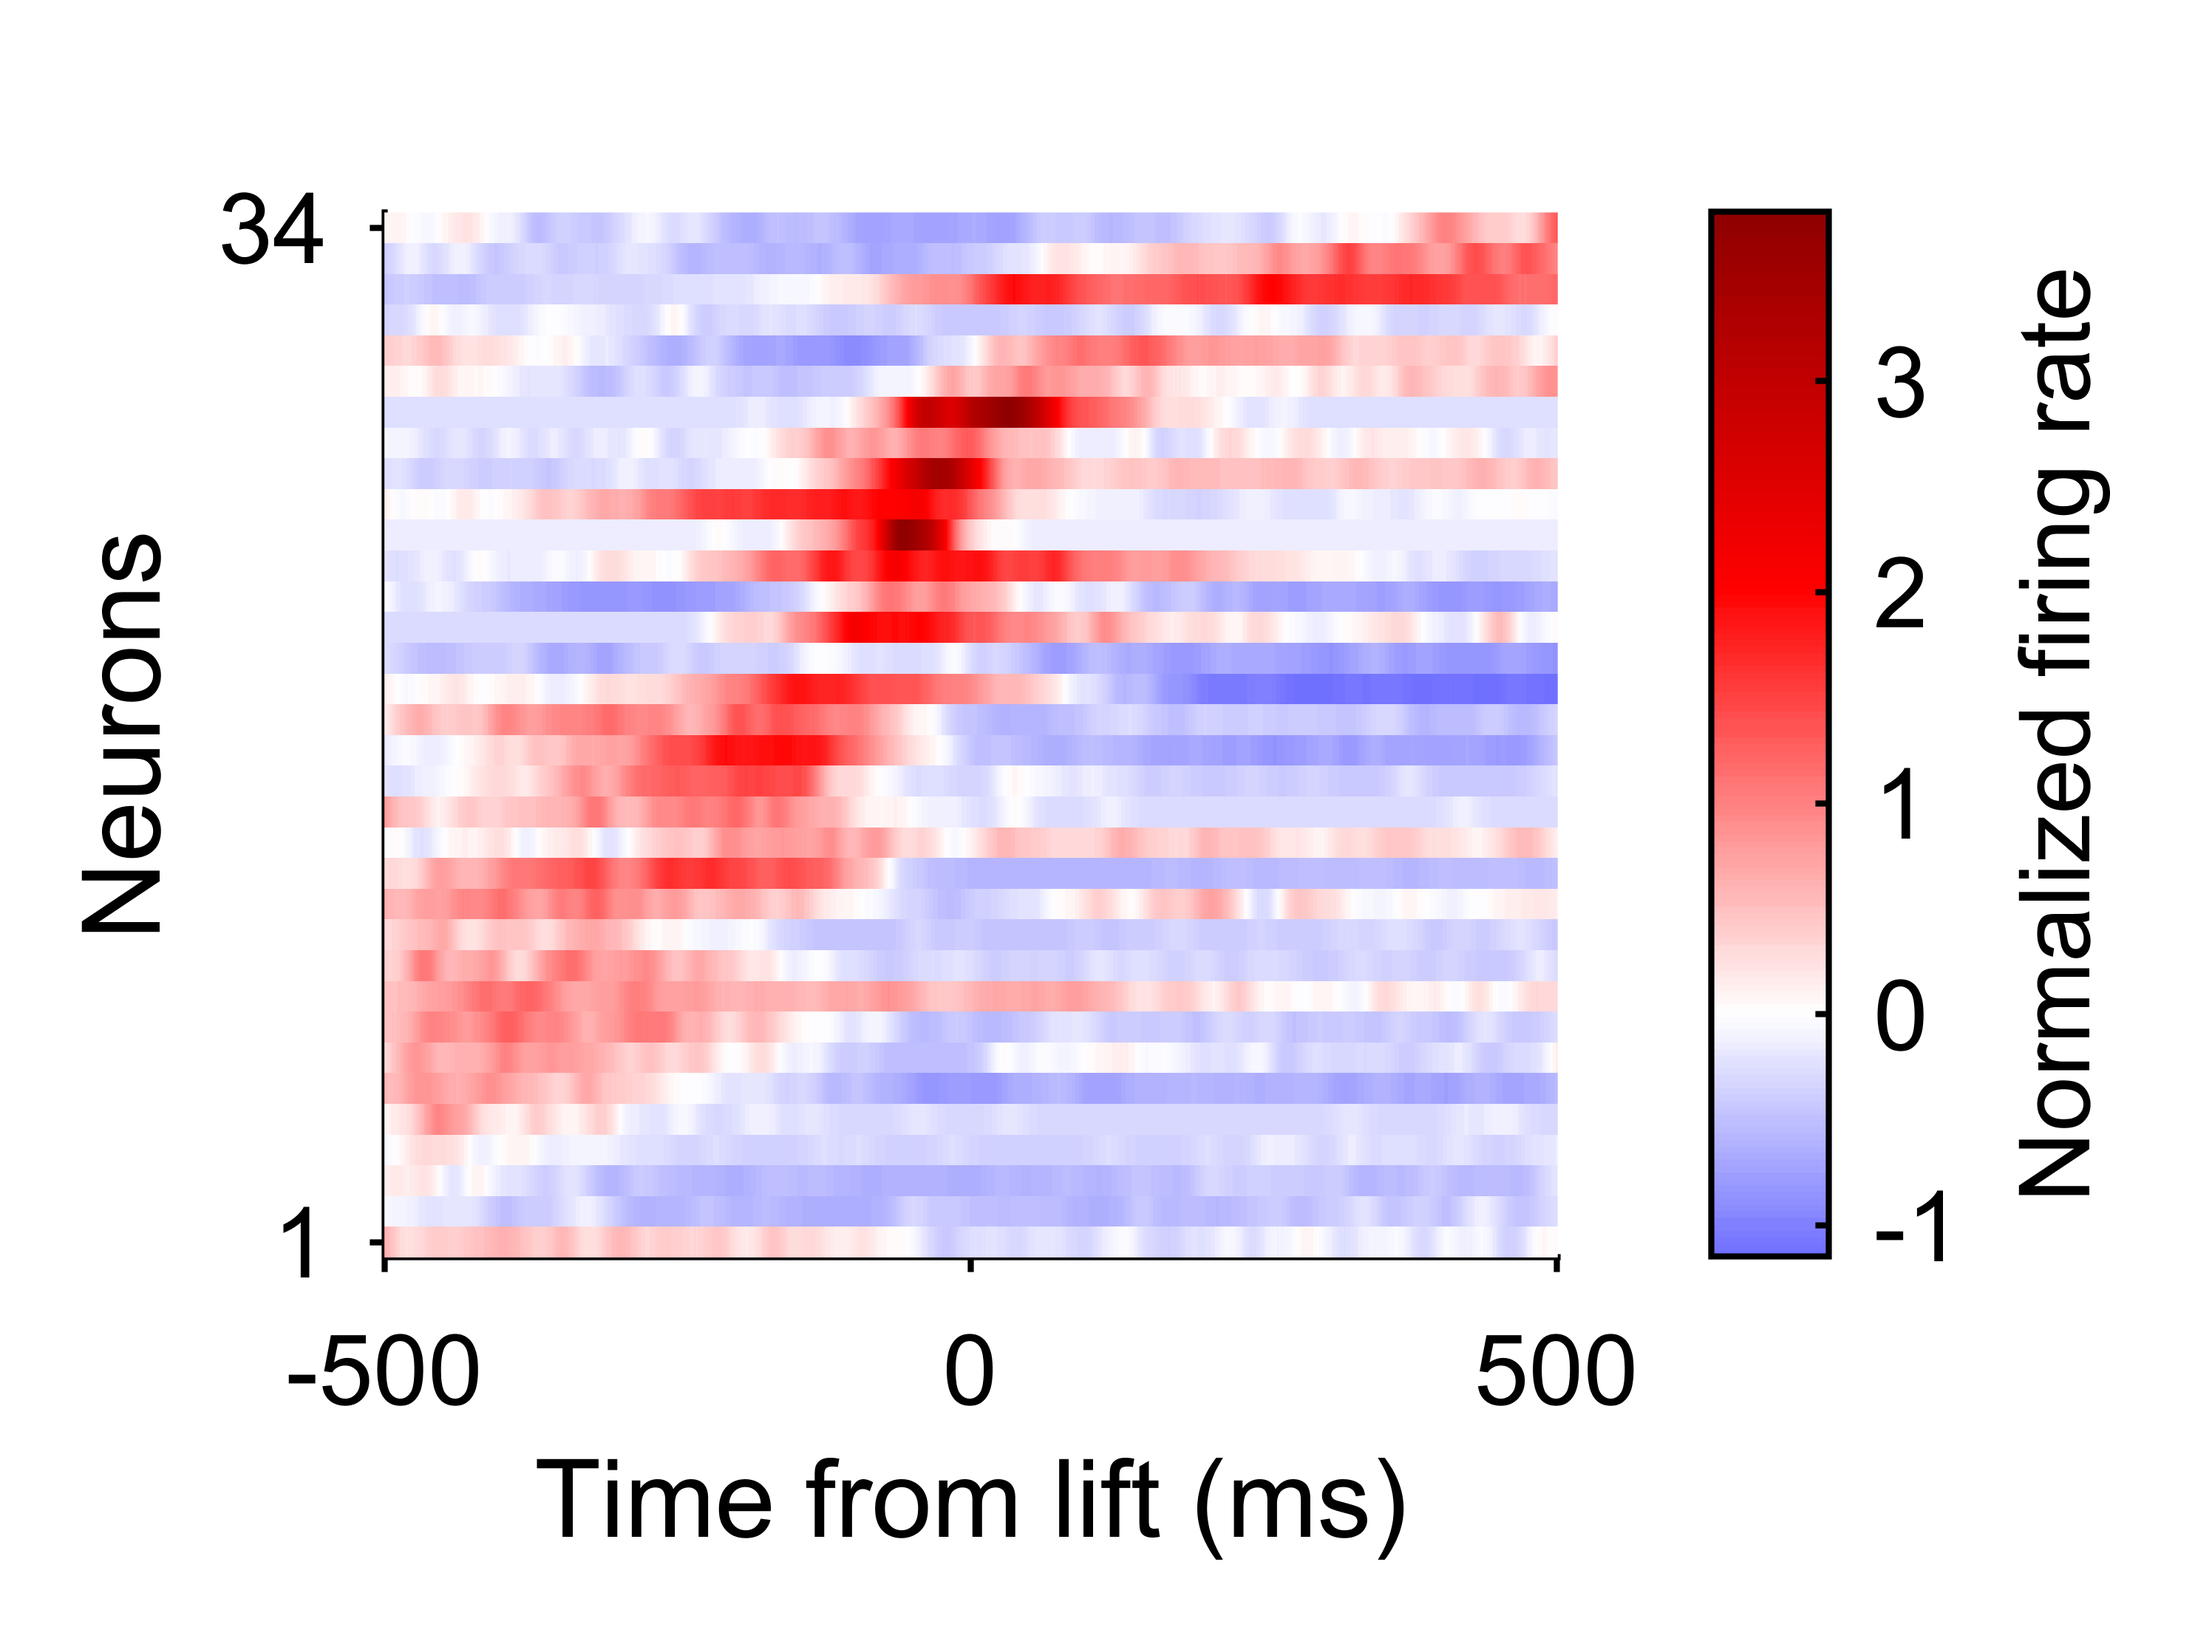
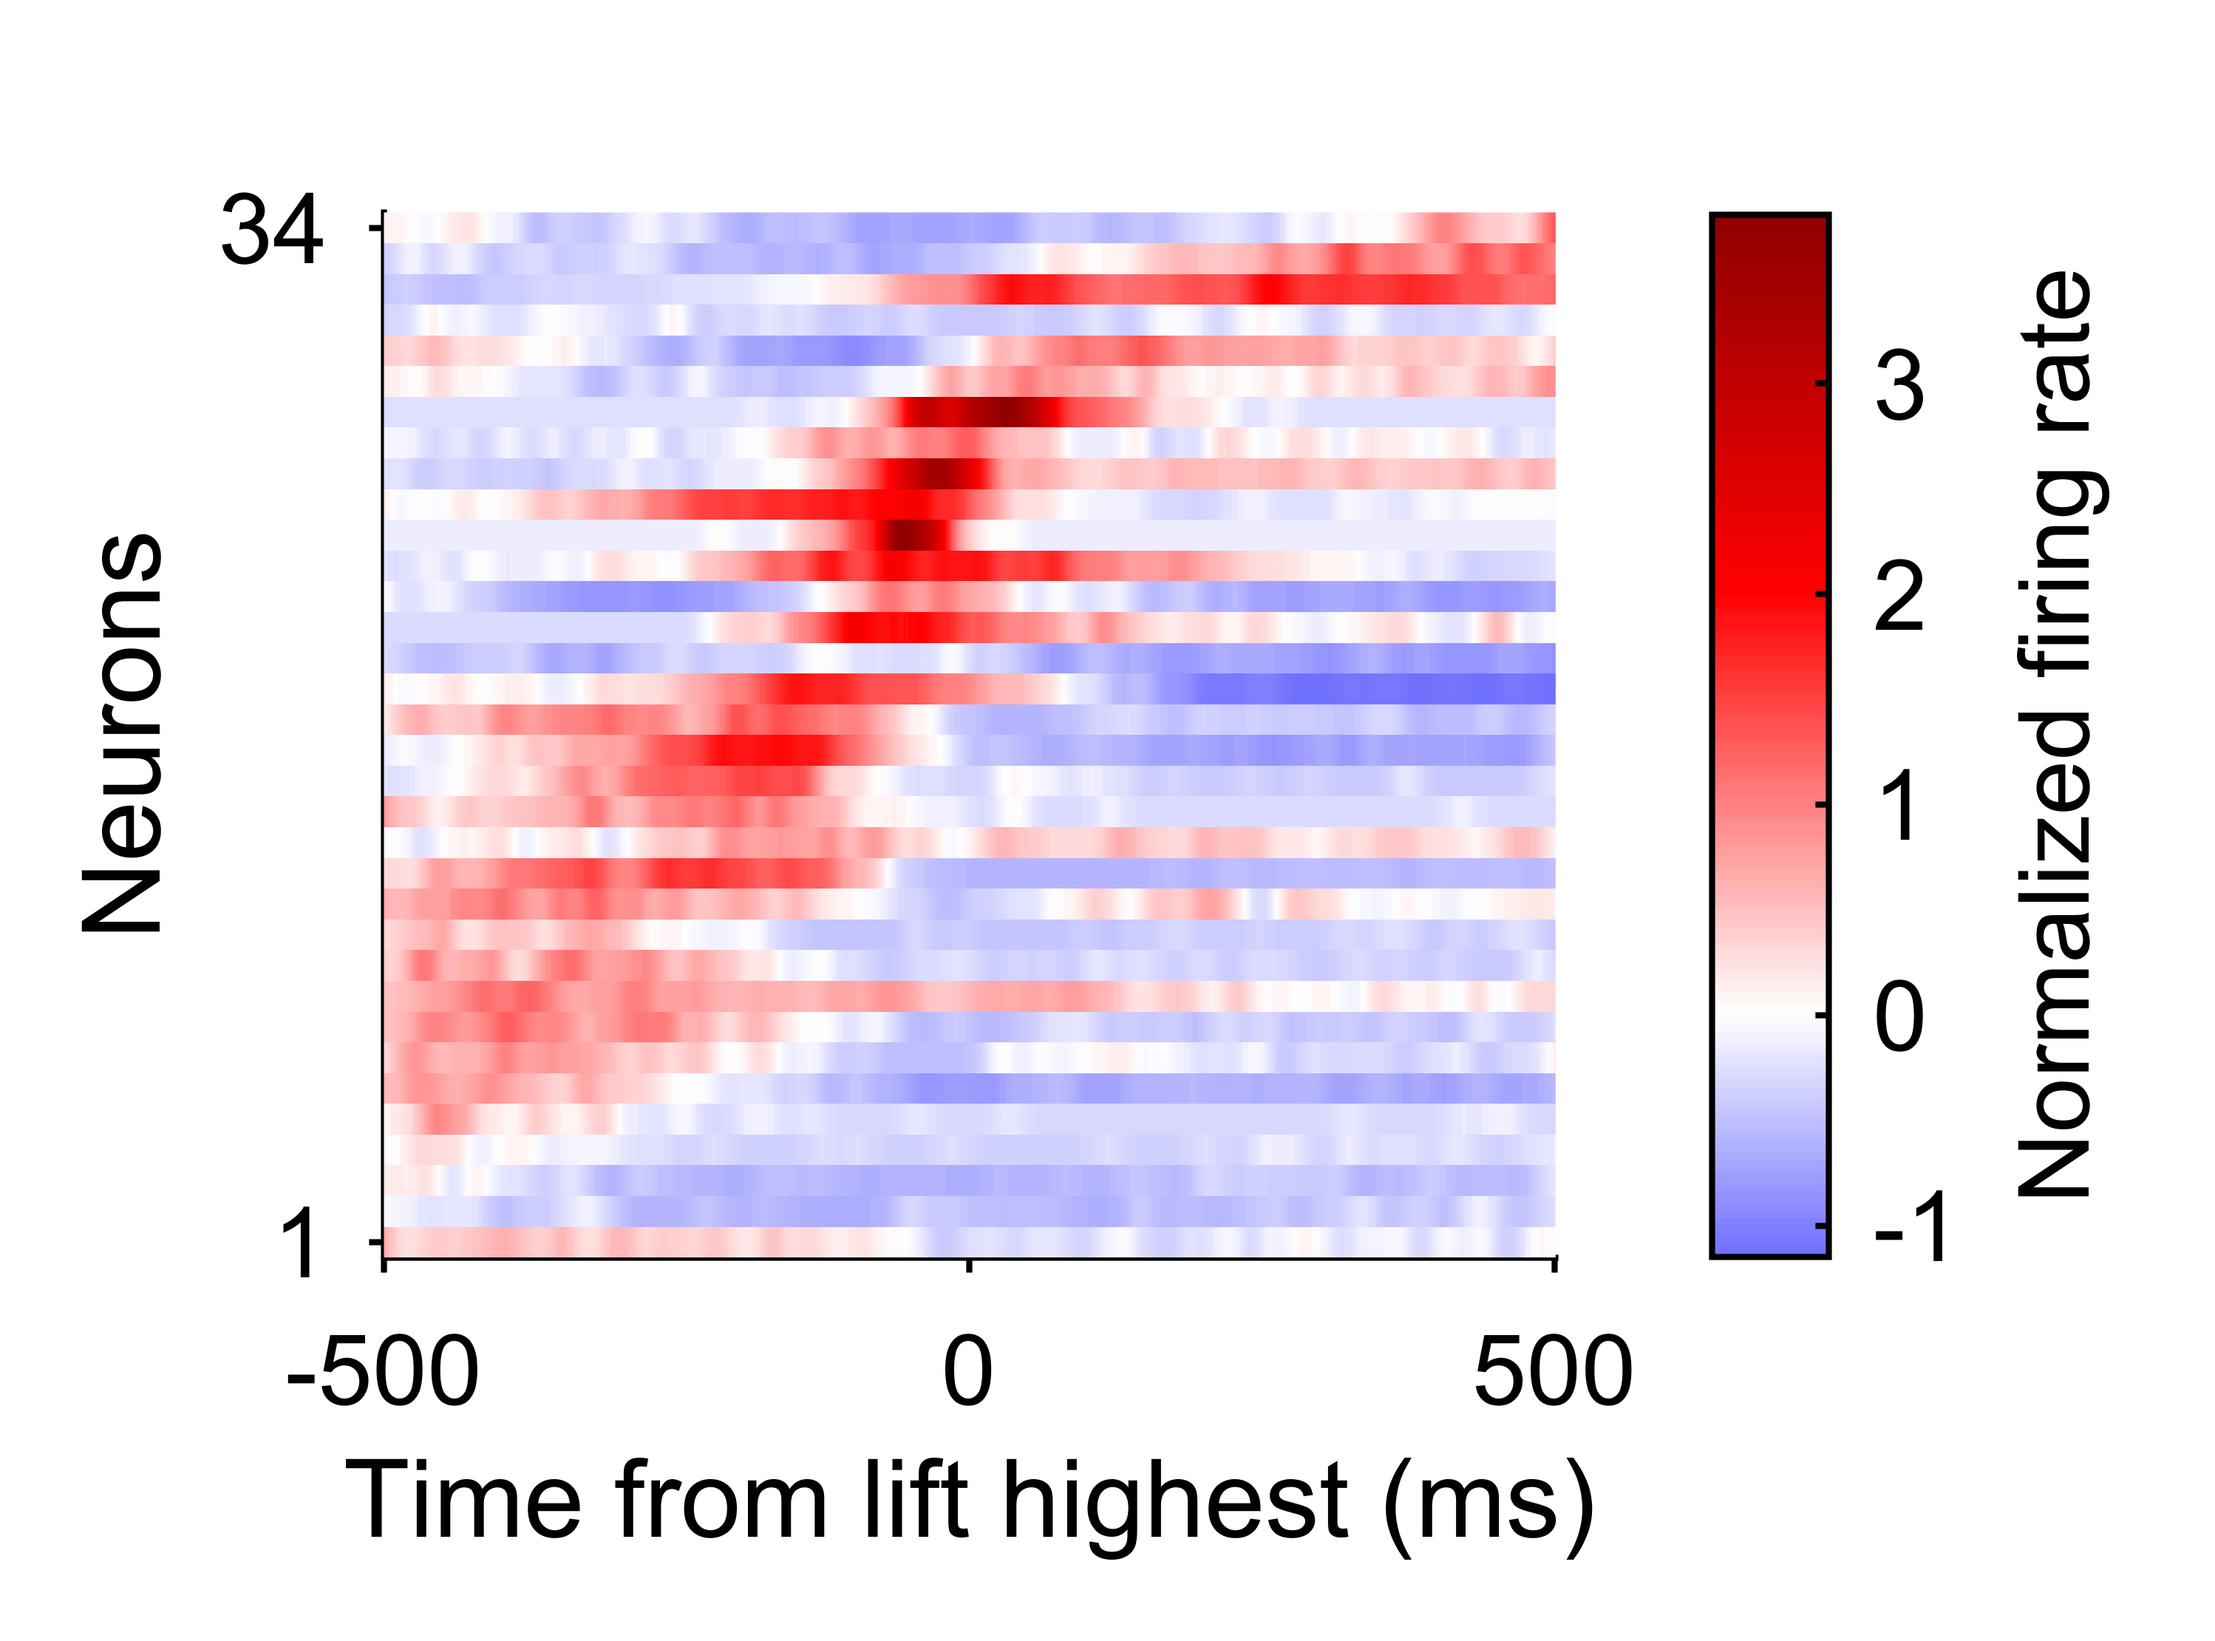
2023.2.14

diff --git a/CodesHY/Scripts/fig/TrajectoryCellAll/PETHLiftHighest.m b/CodesHY/Scripts/fig/TrajectoryCellAll/PETHLiftHighest.m
@@ -1,8 +1,8 @@
 SetNeurons;
 
 bodypart = 'left_paw';
-frame_pre = 100;
-frame_post = 20;
+frame_pre = 30;
+frame_post = 30;
 %% Extract spike time
 count = 0;
 Neurons = [];
@@ -26,8 +26,15 @@ for r_idx = 1:3:length(r_traj_all)
     idx_bodypart = find(strcmp(r.VideoInfos_side(1).Tracking.BodyParts,bodypart));
     
     lift_highest_time = zeros(1,length(idx_all));
-    traj = zeros(1,1+frame_pre+frame_post);
+    traj = cell(1,length(vid_idx));
+    traj_pre = nan(length(vid_idx),frame_pre);
+    traj_post = nan(length(vid_idx),frame_post);
+
+    t_traj = cell(1,length(vid_idx));
+    t_traj_pre = nan(length(vid_idx),frame_pre);
+    t_traj_post = nan(length(vid_idx),frame_post);
     for k = 1:length(vid_idx)
+        % Extract lift highest time
         frame_start = r.VideoInfos_side(vid_idx(k)).LiftStartFrameNum;
         frame_end = round(-r.VideoInfos_side(vid_idx(k)).t_pre/10);
         
@@ -36,15 +43,48 @@ for r_idx = 1:3:length(r_traj_all)
         frame_highest = frame_range(idx_highest);
 
         lift_highest_time(k) = r.VideoInfos_side(vid_idx(k)).VideoFrameTime(frame_highest);
+        traj{k} = r.VideoInfos_side(vid_idx(k)).Tracking.Coordinates_y{idx_bodypart}(frame_start:frame_highest);
+        t_traj{k} = r.VideoInfos_side(vid_idx(k)).VideoFrameTime(frame_start:frame_highest)-r.VideoInfos_side(vid_idx(k)).VideoFrameTime(frame_highest);
+        
+        % Extract frame previous to lift start
+        frame_start = r.VideoInfos_side(vid_idx(k)).LiftStartFrameNum;
+        while frame_start-1 >= max(r.VideoInfos_side(vid_idx(k)).LiftStartFrameNum-frame_pre,1)...
+                && r.VideoInfos_side(vid_idx(k)).Tracking.Coordinates_p{idx_bodypart}(frame_start-1) > 0.8
+            frame_start = frame_start-1;
+        end
+
+        frame_end = r.VideoInfos_side(vid_idx(k)).LiftStartFrameNum-1;
+        frame_range = frame_start:frame_end;
+        traj_pre(k,end-length(frame_range)+1:end) = r.VideoInfos_side(vid_idx(k)).Tracking.Coordinates_y{idx_bodypart}(frame_range);
+        t_traj_pre(k,end-length(frame_range)+1:end) = r.VideoInfos_side(vid_idx(k)).VideoFrameTime(frame_range)-r.VideoInfos_side(vid_idx(k)).VideoFrameTime(frame_highest);
+
+        % Extract frame post to lift start
+%         frame_end = frame_highest;
+%         while frame_end+1 <= min(frame_highest+frame_post,r.VideoInfos_side(vid_idx(k)).total_frames).....
+%                 && r.VideoInfos_side(vid_idx(k)).Tracking.Coordinates_p{idx_bodypart}(frame_end+1) > 0.8
+%             frame_end = frame_end+1;
+%         end
+        frame_end = frame_highest+frame_post;
+
+        frame_start = frame_highest+1;
+        frame_range = frame_start:frame_end;
+        traj_post(k,1:length(frame_range)) = r.VideoInfos_side(vid_idx(k)).Tracking.Coordinates_y{idx_bodypart}(frame_range);    
+        t_traj_post(k,1:length(frame_range)) = r.VideoInfos_side(vid_idx(k)).VideoFrameTime(frame_range)-r.VideoInfos_side(vid_idx(k)).VideoFrameTime(frame_highest);
     end
 
     count = count+1;
     Neurons(count).spike_time = r.Units.SpikeTimes(r_traj_all{r_idx+1}).timings;
     Neurons(count).lift_highest_time = lift_highest_time;
     Neurons(count).traj = traj;
+    Neurons(count).traj_pre = traj_pre;
+    Neurons(count).traj_post = traj_post;
+
+    Neurons(count).t_traj = t_traj;
+    Neurons(count).t_traj_pre = t_traj_pre;
+    Neurons(count).t_traj_post = t_traj_post;
 end
 
-save Neurons_lift_highest.mat Neurons
+save Neurons_lift_highest.mat Neurons frame_pre frame_post
 
 %% Extract PETH
 clear
@@ -58,7 +98,7 @@ params.pre = -t_pre;
 params.post = t_post;
 params.binwidth = binwidth;
 
-psth_lift = [];
+psth_lift_unsorted = [];
 for k = 1:length(Neurons)
 
     params_temp = params;
@@ -73,13 +113,13 @@ for k = 1:length(Neurons)
     std_psth = std(psth_temp);
 
     psth = (psth-mean_psth)./std_psth;
-    psth_lift = [psth_lift;psth];
+    psth_lift_unsorted = [psth_lift_unsorted;psth];
 end
 
 % sort by max response time
-[~, max_t] = max(psth_lift,[],2);
+[~, max_t] = max(psth_lift_unsorted,[],2);
 [~, sort_idx] = sort(max_t);
-psth_lift = psth_lift(sort_idx,:);
+psth_lift = psth_lift_unsorted(sort_idx,:);
 
 %% Make figures press PETH
 fig = EasyPlot.figure('Width',10,'Height',10);
@@ -102,10 +142,123 @@ EasyPlot.colorbar(ax_peth,...
 yticks(ax_peth,[1,length(Neurons)]);
 
 ylabel(ax_peth,'Neurons')
-xlabel(ax_peth,'Time from lift (ms)')
+xlabel(ax_peth,'Time from lift highest (ms)')
 
 EasyPlot.cropFigure(fig)
 EasyPlot.exportFigure(fig,'LiftHighestPETHTrajectoryCell','type','png','dpi',1200)
+
+%% Mean traj
+NpointTraj = 200;
+
+traj_all = [];
+traj_pre_all = [];
+traj_post_all = [];
+traj_length_all = [];
+t_traj_all = [];
+t_Neurons = [];
+
+for k = 1:length(Neurons)
+    for j = 1:length(Neurons(k).traj)
+        traj_length_all = [traj_length_all, length(Neurons(k).traj{j})];
+    end
+end
+
+NpointPre = round((NpointTraj-1)*frame_pre/mean(traj_length_all-1)+1);
+NpointPost = round((NpointTraj-1)*frame_post/mean(traj_length_all-1)+1);
+
+for k = 1:length(Neurons)
+    t_Neuron = [];
+    for j = 1:length(Neurons(k).traj)
+        traj_interpolated = interp1(...
+            1:length(Neurons(k).traj{j}),...
+            Neurons(k).traj{j},...
+            linspace(1,length(Neurons(k).traj{j}),NpointTraj));
+        t_traj_interpolated = interp1(...
+            1:length(Neurons(k).t_traj{j}),...
+            Neurons(k).t_traj{j},...
+            linspace(1,length(Neurons(k).t_traj{j}),NpointTraj));
+
+        traj_pre_interpolated = interp1(...
+            0:frame_pre,...
+            [Neurons(k).traj_pre(j,:),Neurons(k).traj{j}(1)],...
+            linspace(0,frame_pre,NpointPre));
+        t_traj_pre_interpolated = interp1(...
+            0:frame_pre,...
+            [Neurons(k).t_traj_pre(j,:),Neurons(k).t_traj{j}(1)],...
+            linspace(0,frame_pre,NpointPre));
+
+        traj_post_interpolated = interp1(...
+            0:frame_post,...
+            [Neurons(k).traj{j}(end),Neurons(k).traj_post(j,:)],...
+            linspace(0,frame_post,NpointPost));
+        t_traj_post_interpolated = interp1(...
+            0:frame_post,...
+            [Neurons(k).t_traj{j}(end),Neurons(k).t_traj_post(j,:)],...
+            linspace(0,frame_post,NpointPost));
+
+        traj_all = [traj_all; [traj_pre_interpolated(1:end-1),traj_interpolated,traj_post_interpolated(2:end)]]; % remove repeated points
+        t_traj_all = [t_traj_all; [t_traj_pre_interpolated(1:end-1),t_traj_interpolated,t_traj_post_interpolated(2:end)]];
+        t_Neuron = [t_Neuron; [t_traj_pre_interpolated(1:end-1),t_traj_interpolated,t_traj_post_interpolated(2:end)]];
+    end
+    t_Neurons = [t_Neurons; mean(t_Neuron,'omitnan')];
+end
+
+meanTraj = mean(traj_all,'omitnan');
+
+psth_unsorted = zeros(size(t_Neurons));
+for k = 1:length(Neurons)
+
+    params_temp = params;
+    params_temp.pre = 1000;
+    params_temp.pose = 1000;
+    [psth_temp, tpsth_temp] = jpsth(Neurons(k).spike_time, Neurons(k).lift_highest_time', params_temp);
+    psth_temp = smoothdata(psth_temp,'gaussian',50);    
+
+    mean_psth = mean(psth_temp);
+    std_psth = std(psth_temp);
+
+    psth = (psth_temp-mean_psth)./std_psth;
+
+    psth_unsorted(k,:) = interp1(tpsth_temp,psth,t_Neurons(k,:));
+end
+% sort by max response time
+[~, max_t] = max(psth_unsorted,[],2);
+[~, sort_idx] = sort(max_t,'descend');
+psth = psth_unsorted(sort_idx,:);
+
+%%
+marker_size = 2;
+
+fig_yt = EasyPlot.figure('Height',20,'Width',20);
+ax_yt = EasyPlot.axes(fig_yt,...
+    'YDir','reverse',...
+    'XDir','reverse',...
+    'Height',3,...
+    'Width',5);
+title(ax_yt,'y vs t');
+for k = 1:size(psth,1)
+    hold on
+    scatter(ax_yt,...
+        1:length(meanTraj),...
+        meanTraj+10*k,...
+        marker_size,...
+        psth(k,:),'filled');
+end
+
+EasyPlot.colorbar(ax_yt,...
+    "label",'Normalized firing rate',...
+    'colormap', EasyPlot.ColorMap.Diverging.seismic,...
+    'zeroCenter', true,...
+    'MarginRight',0.8);
+EasyPlot.setXLim(ax_yt,[0,length(meanTraj)+1]);
+
+EasyPlot.HideXAxis(ax_yt);
+EasyPlot.HideYAxis(ax_yt);
+
+EasyPlot.cropFigure(fig_yt)
+EasyPlot.exportFigure(fig_yt,'PETHTrajectoryCell','dpi',1200)
+
+
 
 
 

diff --git a/CodesHY/kilosort/KornblumSpikesUnsorted.m b/CodesHY/kilosort/KornblumSpikesUnsorted.m
@@ -1044,7 +1044,7 @@ thisFolder = fullfile(pwd, 'Fig');
 if ~exist(thisFolder, 'dir')
     mkdir(thisFolder)
 end
-tosavename2= fullfile(thisFolder, [electrode_type num2str(ch) '_Unit' num2str(unit_no)  printname]);
+tosavename2= fullfile(thisFolder, [electrode_type num2str(ch) '_Unit' num2str(unit_no) '_unsorted' printname]);
 % print (gcf,'-dpdf', tosavename2)
 print (gcf,'-dpng', tosavename2)
 % save(tosavename2, 'PSTHOut')

diff --git a/CodesHY/kilosort/README.md b/CodesHY/kilosort/README.md
@@ -1,5 +1,15 @@
 # Kilosort with BlackRock Recording
 
+<!-- START doctoc generated TOC please keep comment here to allow auto update -->
+<!-- DON'T EDIT THIS SECTION, INSTEAD RE-RUN doctoc TO UPDATE -->
+- [Kilosort with BlackRock Recording](#kilosort-with-blackrock-recording)
+  - [Installation](#installation)
+    - [prerequesite:](#prerequesite)
+    - [Steps](#steps)
+  - [Data process pipeline](#data-process-pipeline)
+    - [About Phy output files](#about-phy-output-files)
+
+<!-- END doctoc generated TOC please keep comment here to allow auto update -->
 ## Installation
 ### prerequesite:
 - [Visual studio community 2017](https://visualstudio.microsoft.com/zh-hans/vs/older-downloads/) with 'C++桌面开发' (compatatible to MATLAB version)
@@ -9,23 +19,27 @@
 - Anaconda
 
 ### Steps
+#### Install phy
 - New conda environment with python 3.8 `conda create -n phy python=3.8`
 - Install phy `pip install phy --pre --upgrade`
 - Deal with numpy version error `pip uninstall numpy`, `pip install numpy==1.23`
+#### Install spike interface
+- New conda environment with python 3.8 `conda create -n spikeinterface python=3.8`
 - Install spikeinterface `pip install spikeinterface[full,widgets]`
+#### Install kilosort
 - Install kilosort. If visual studio is properly installed, run `mex -setup C++` in MATLAB and run the file `Kilosort\CUDA\mexGPUall.m`.
 
 ## Data process pipeline
 - Move the directory with your data to SSD. (faster)
 - Move the file `kilosort.ipynb` to your data directory.
-- Open `kilosort.ipynb` in VS Code and set the kernal to `phy`. Modify the codes by following the instructions.
+- Open `kilosort.ipynb` in VS Code and set the kernal to `spikeinterface`. Modify the codes by following the instructions.
 - Do munual curation with [Phy](https://phy.readthedocs.io/en/latest/clustering/). Open 'Anaconda prompt'. First enter the output directory and run `phy template-gui params.py`.
 - Following the pipeline. Watch phy tutorial [here](https://www.youtube.com/watch?v=czdwIr-v5Yc). ![](phy_pipeline.png)
 - Copy `BuildSpikeTable.m` to data folder, edit key parameters and run. A new class object `KilosortOuput` will be generated. 
 - Run `KilosortOutput.BuildR()` to build `r`.
 
 
-### About Phy output files
+### [About Phy output files](https://github.com/cortex-lab/phy/blob/master/docs/sorting_user_guide.md)
 | Filename | Type | Notes |
 | :------------- | :---------- | :------------ |
 |spike_clusters.npy|	nx1 vector 	                                    |Each spike's cluster (0:n_cluster-1) after manual curation |
